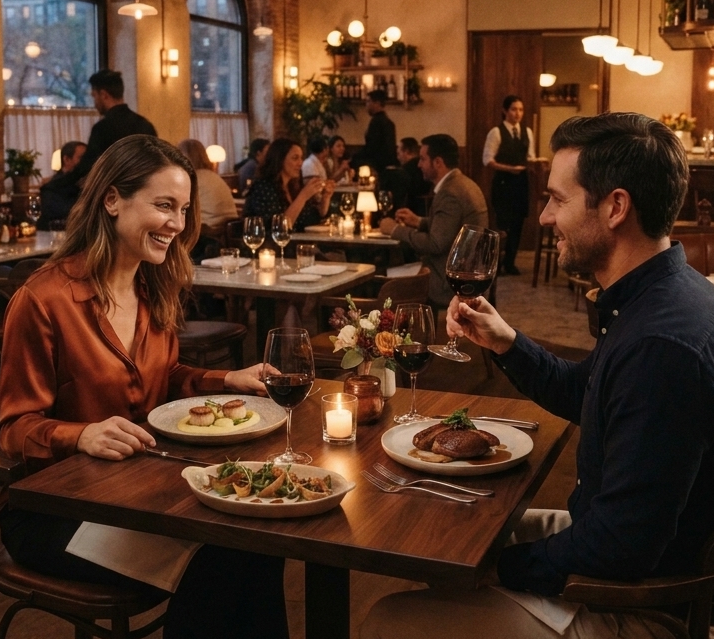
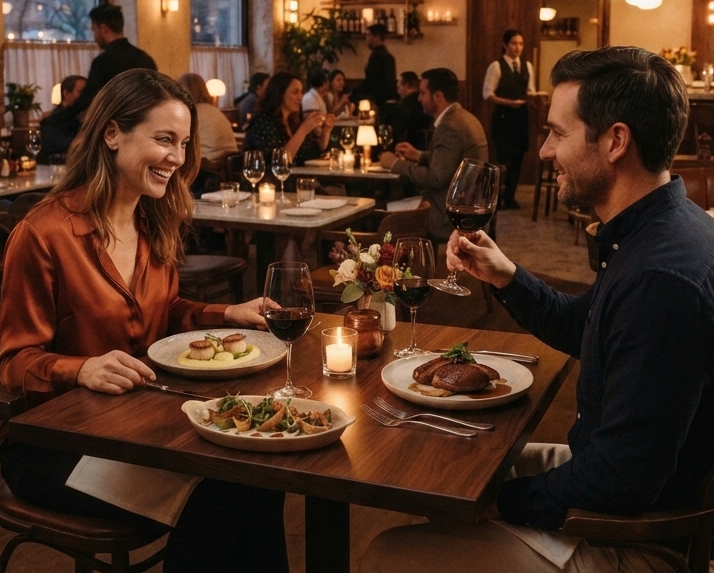
1

diff --git a/src/app/user/Resturents/[id]/page.tsx b/src/app/user/Resturents/[id]/page.tsx
@@ -2,31 +2,32 @@
 import { api } from "@/lib/api/axios";
 import Image from "next/image";
 import { userContext } from "@/lib/context/Context";
-import { MenuItem, OrderTable, Restaurant } from "@/lib/interfaces/order";
+import { MenuItem, OrderItem, Restaurant } from "@/lib/interfaces/order";
 import Result from "@/lib/Result";
 import { useParams } from "next/navigation";
 import { useContext, useEffect, useState } from "react";
-import {  MapPinCheckInside } from "lucide-react";
+import {  Delete, MapPinCheckInside, Minus, Plus, Trash } from "lucide-react";
+import Link from "next/link";
+import UsersLoading from "@/components/userComponents/Loading";
 
-export default function(params:{id:string}){
+export default function Resturants(params:{id:string}){
     const param = useParams<{ id: string }>();
-    const {setNavinfo , setservererror} = useContext(userContext);
+    const {setNavinfo , setservererror , myBowl , setbowl } = useContext(userContext);
     const [catbtn, setcatbtn]= useState("all");
-    const [cat , setcat]= useState<Set<string>>(new Set);
-
+    const [cat, setcat] = useState<string[]>([]);
     const [resturent, setResturent] = useState<Restaurant | null>(null);
+    const [nextTotal, setnextTotal] = useState(0);
+    
 
     useEffect(()=>{
         if(!resturent){return}
-        const cats = new Set(resturent.menu.map(e=>e.catagory));
-        setcat(cats)
-        console.log(cats);   
-        // console.log("catagories")
+        const cats = Array.from(new Set(resturent.menu.map(e=>e.catagory)));
+        setcat(cats);
 
     },[resturent]);
 
     useEffect(()=>{
-        setNavinfo({title:"Resturent" , goback:true});
+       
         const getresturent = async () => {
             if (!param.id) return;
 
@@ -34,7 +35,6 @@ export default function(params:{id:string}){
                 const {data} = await api.get<Result<Restaurant>>(`resturant/getResturentById/${param.id}`);
                 if (data?.Success && data.Data) {
                     setResturent(data.Data);
-                    setNavinfo({title:data.Data.resturantName ?? "Resturent" , goback:true});
                 console.log(data)
                 }
             } catch (e) {
@@ -49,10 +49,32 @@ export default function(params:{id:string}){
         console.log(cat);
         setcatbtn(cat);
     }
+    
+   
+    useEffect(()=>{
+         const Total = myBowl?.filter(e=> e.resturantId === param.id)
+            .reduce((acc, item) => acc + (Number(item.price) * item.quantity), 0) ?? 0;
+            setnextTotal(Total);
+    }, [myBowl, param.id ]);
+
+    useEffect(()=>{
+        if(!resturent){return}
+
+        setNavinfo({title:resturent.resturantName
+                ,
+            goback: true
+        });
+    }, [resturent, nextTotal, setNavinfo]);
+
+    const handledeleteall =()=>{
+        setbowl((pr)=>{
+            return pr.filter((e)=> e.menu.resturentId !== param.id);
+        })
+    }
     return(
         <>
         {
-        resturent? <div className="flex flex-col">
+        resturent? <div className="flex flex-col scroll-smooth duration-200">
             <Image src={resturent.coverFile?.Path?encodeURI((resturent.coverFile?.Path?.replace(/\\/g, "/")).startsWith("http")
             ? resturent.coverFile?.Path?.replace(/\\/g, "/")
             : `${api.defaults.baseURL?.replace(/\/$/, "")}/${resturent.coverFile?.Path?.replace(/\\/g, "/").replace(/^\//, "")}`) : "/broken_resturant_cover.png"} width={1000} height={1000} alt="cover"></Image>
@@ -71,29 +93,131 @@ export default function(params:{id:string}){
                 <p className=" p-3 text-[#A13924] font-bold">Checkout the menu</p>
                 <hr className="  border-[#97756f] w-full " />
                 
-                <div className="flex min-w-0 flex-row flex-nowrap overflow-x-auto overflow-y-hidden scroll-smooth snap-x snap-mandatory no-scrollbar">
-                    <button className = {`m-2 shrink-0 whitespace-nowrap rounded-3xl border pl-3 pr-3 pt-1 pb-1 ${catbtn == "all" ? "bg-[#A13924] text-white" :" bg-[#F5F3F0] border border-[#DEC0BA]"}`} onClick={()=>handlemenucatagory("all")}>All items</button>
-                    {Array.from(cat).map((val) => (
-                        <button
+                <div className="flex min-w-0 flex-row flex-nowrap overflow-x-auto overflow-y-hidden scroll-smooth snap-x snap-mandatory no-scrollbar sticky top-14 z-10 bg-[#FBF9F6] p-2">
+                    <a id="allitems" href="#allitems" className = {`m-2 shrink-0 whitespace-nowrap rounded-3xl border pl-3 pr-3 pt-1 pb-1 ${catbtn == "all" ? "bg-[#A13924] text-white" :" bg-[#F5F3F0] border border-[#DEC0BA]"}`} onClick={()=>handlemenucatagory("all")}>All items</a>
+                    {cat.map((val) => (
+                        <a href={`#${val}`}
                             key={val}
                             className={`m-2 shrink-0 whitespace-nowrap rounded-3xl border pl-3 pr-3 pt-1 pb-1 ${catbtn === val ? "bg-[#A13924] text-white" : "bg-[#F5F3F0] border border-[#DEC0BA]"}`}
                             onClick={() => handlemenucatagory(val)} >
                             {val}
-                        </button>
+                        </a>
                     ))}
                 </div>
+                {/* cards load */}
+               <div className="flex flex-col gap-1 p-3">
+                {cat.map(e=> <span id={e} key={e} className="flex flex-col m-2 mb-4 font-semibold"> {e}{resturent.menu.map(f=> e == f.catagory && f.isAvailable ? <Ordercard resid={param.id} key={f.id} item={f}/>:"")}</span>)}
+               </div>
             </div>
-        </div> : "<UsersLoading time={2000}/>"}
-
+            <div>
+                {nextTotal > 0 ? <span className="fixed bottom-15 left-0 right-0 z-50 flex h-16 w-full items-center justify-between gap-4 bg-[#A13924] p-4 text-white">
+                <span className="font-bold">Total: {nextTotal} BDT</span>
+                <span className="flex flex-row gap-4 items-center justify-end">
+                <Link href={"../checkout"} className="rounded-3xl bg-[#F5F3F0] p-1 pl-2.5 pr-2.5 text-[#A13924] font-semibold">Checkout</Link> 
+                <button  onClick={()=>{handledeleteall()}} className=" border border-white">Revove all</button>
+                </span></span>:""}
+            </div>
+        </div> : <UsersLoading time={2000}/>}
         </>
     )
 }
 
-export function Ordercard({item}:{item:MenuItem}){
+export function Ordercard({item , resid }:{item:MenuItem , resid:string }){
+    const {myBowl , setbowl} = useContext(userContext);
+    const [count, setcount] = useState(1);
+    const [found , setfound] = useState(false)   
+    
+    useEffect(() => {
+    const checkfound = myBowl?.find(
+        (orderItem) =>
+            orderItem.menu.id === item.id &&
+            orderItem.resturantId === resid
+    );
 
+    if (!checkfound) {
+        setfound(false);
+        setcount(1);
+        return;
+    }
+
+    setfound(true);
+    setcount(checkfound.quantity);
+}, [myBowl, item.id, resid]);
+
+    const handleadd =()=>{
+        // console.log("add to bowl");
+        setbowl((prev:OrderItem[])=>{
+            const existingItemIndex = prev!.find((orderItem) => orderItem.menu.id === item.id);
+            if (existingItemIndex ) {
+                console.log(existingItemIndex);
+                // console.log("item already exist in bowl");
+                return prev!.map(e=> e.menu.id === item.id ? { ...e, quantity: count } : e)
+            } else {
+                // console.log("item added to bowl");
+                return [...prev! , {resturantId:resid, menu: item, quantity: count, price: item.price }];
+            }
+        })
+            // console.log(myBowl);
+    }
+    const handleremove =()=>{
+        setbowl((prev:OrderItem[])=>{
+            const existingItemIndex = prev!.find((orderItem) => orderItem.menu.id === item.id);
+            if (existingItemIndex) {
+                // console.log("item removed from bowl");
+                return prev!.filter(e=> e.menu.id !== item.id)
+            } else {
+                // console.log("item not found in bowl");
+                return prev;
+            }
+        });
+        setcount(1);
+        setfound(false);
+        
+    }
     return(
         <>
-        dsd asd as
+        {item ?
+        <div className=" m-2 flex min-h-30 min-w-0 flex-row items-center justify-between overflow-hidden rounded-2xl border border-[#DEC0BA] bg-[#F5F3F0] p-3">
+            <span className="flex min-w-0 max-w-[60%] flex-col justify-start gap-2">
+            <span className="truncate font-semibold text-[#3b3939]">{item.itemName}</span>
+            <span className="break-words font-normal leading-5 text-[#7a7776]">{item.description}</span>       
+            {/* counter button */}
+        <span className="flex flex-row items-center gap-2">
+        <span className="font-bold text-[#A13924]">{item.price} BDT</span>
+        <div className="inline-flex w-fit items-center overflow-hidden rounded-full border border-[#DEC0BA] bg-white shadow-sm">
+            <button
+              aria-label={`Decrease quantity of ${item.itemName}`}
+              className="flex h-5 w-5 items-center justify-center text-[#A13924] transition hover:bg-[#f2e3de] disabled:cursor-not-allowed disabled:opacity-40"
+              onClick={() => setcount((prev) => Math.max(1, prev - 1))}
+              type="button"
+              disabled={count === 1}
+            >
+              <Minus size={15} strokeWidth={2.5} />
+            </button>
+            <span className="flex h-5 min-w-5 items-center justify-center border-x border-[#DEC0BA] px-2 text-sm font-bold text-[#2d221f]" aria-live="polite">
+              {count}
+            </span>
+            <button
+              aria-label={`Increase quantity of ${item.itemName}`}
+              className="flex h-5 w-5 items-center justify-center text-[#A13924] transition hover:bg-[#f2e3de]"
+              onClick={() => setcount((prev) => prev + 1)}
+              type="button">
+              <Plus size={15} strokeWidth={2.5} />
+            </button>
+          </div>
+            </span>
+            {count > 1 ?<span className="text-[#A13924]">Total:{count*item.price} BDT</span> :""}
+            </span>
+            <span className="relative">
+            <Image  className="h-24 w-24 shrink-0 rounded-2xl object-cover shadow-md" src={item.images?.[0]?.Path
+                ? encodeURI((item.images[0].Path.replace(/\\/g, "/")).startsWith("http")
+                ? item.images[0].Path.replace(/\\/g, "/")
+                : `${api.defaults.baseURL?.replace(/\/$/, "")}/${item.images[0].Path.replace(/\\/g, "/").replace(/^\//, "")}`) : "/broken_resturant__logo.png"} width={1000} height={1000} alt={`${item.itemName} image`} />
+
+                {found ? <button onClick={()=>handleremove()} className="absolute top-18 rounded-4xl p-1 bg-[#A13924] right-1"><Trash size={20} color="#ffff" strokeWidth={3} /></button> :<button onClick={()=>handleadd()} className="absolute top-18 rounded-4xl p-1 bg-[#A13924] right-1"><Plus size={20} color="#ffff" strokeWidth={3} /></button>
+                }
+            </span>
+        </div>:""}
         </>
     )
 

diff --git a/src/app/user/layout.tsx b/src/app/user/layout.tsx
@@ -1,31 +1,50 @@
 "use client"
 import Usernav from "@/components/userComponents/usernav"
-import { Restaurant } from "@/lib/interfaces/order";
-import { useState } from "react"
+import { OrderItem, Restaurant } from "@/lib/interfaces/order";
+import { useEffect, useState } from "react"
 import { userContext } from "@/lib/context/Context";
-import { ShieldQuestionMark, Utensils } from "lucide-react";
+import { Route, ShieldQuestionMark, Utensils } from "lucide-react";
 import AlerPopup from "@/components/alertPopup";
 import ServerError from "@/components/serverError";
 
 export default function userlayout({ children }: { children: React.ReactNode }){
     const [popup, setPopup] = useState("");
     const [servererror , setservererror] = useState("");
-    
+
+    const [myBowl , setbowl] = useState<OrderItem[] >([]);
+
     const [activeLink, setActiveLink] = useState("home");
     const [navinfo, setNavinfo] = useState<{ icon1?: React.ReactNode; icon2?: React.ReactNode; title: string , goback?:boolean }>(
         { icon1: <Utensils color="#A13924" />, icon2: <ShieldQuestionMark />, title: "DineSpace" , goback:false}
     );
-    const handleLinkClick = (link: string) => {
-        setActiveLink(link);
-    };
+
+    const getlocal =()=>{
+         if(myBowl.length === 0){
+            const storedBowl = localStorage.getItem("mybowl");
+             if (!storedBowl) return ;
+             try {
+                const parsedBowl = JSON.parse(storedBowl) as OrderItem[];
+                setbowl(parsedBowl);
+             } catch (error) {
+                console.error("Error parsing stored bowl:", error);
+             }
+        }
+    }    
+    useEffect(()=>{
+        getlocal();
+    },[])    
+    useEffect(() => {  
+        localStorage.setItem("mybowl", JSON.stringify(myBowl));
+    }, [myBowl]);
+
+
     return <div className="h-svh overflow-y-auto no-scrollbar">
-    <userContext.Provider value={{setActiveLink, setNavinfo , setPopup , setservererror}}  >
+    <userContext.Provider value={{setActiveLink, setNavinfo , setPopup , setservererror , setbowl , myBowl}}  >
     <Usernav title={navinfo.title} icon1={navinfo.icon1} icon2={navinfo.icon2}  goback={navinfo.goback}/>
-    <div className="">
     {popup && <AlerPopup setpopup={() => setPopup("")} Message={popup} />}
     {servererror && <ServerError error={servererror} setservererror={() => setservererror}  />}
-    </div>   
-    <main>{children}</main>
+   
+    <main className="mb-22">{children}</main>
     </userContext.Provider>
     </div>
 }

diff --git a/src/components/userComponents/usernav.tsx b/src/components/userComponents/usernav.tsx
@@ -13,7 +13,7 @@ title: string;
 }
 
 export default function Usernav(params:UsernavProps) {
-    const {setActiveLink} = useContext(userContext);
+    const {setActiveLink , myBowl} = useContext(userContext);
     const pathname = usePathname();
     const router = useRouter();
     return(
@@ -27,7 +27,7 @@ export default function Usernav(params:UsernavProps) {
         </div>
         <div className="fixed bottom-0 left-0 right-0 z-50 flex h-16 flex-row items-center justify-around border-t border-[#DEC0BA] bg-[#FBF9F6] px-4 shadow-lg">
             <Link href={"/user"} className= {`flex flex-col justify-between items-center ${pathname.startsWith('/user') ? 'text-[#A13924]' : 'text-gray-500'}`}><House /> <span>Home</span> </Link>
-            <Link href={"/user/myBowl"} className= {`flex flex-col justify-between items-center ${pathname.startsWith('/user/myBowl') ? 'text-[#A13924]' : 'text-gray-500'}`}><Soup /> <span>My Bowl</span> </Link>
+            <Link href={"/user/myBowl"} className= {`relative flex flex-col justify-between items-center ${pathname.startsWith('/user/myBowl') ? 'text-[#A13924]' : 'text-gray-500'}`}><Soup /> <span>My Bowl</span><span className=" absolute bg-[#A13924] p-.5 pl-1.5 pr-1.5 rounded-[100%] bottom-7 right-0 text-white">{ myBowl &&myBowl?.length > 0  ? myBowl?.length :""} </span></Link>
             <Link href={"/user/order"} className= {`flex flex-col justify-between items-center ${pathname.startsWith('/user/order') ? 'text-[#A13924]' : 'text-gray-500'}`}><House /> <span>Order</span> </Link>
         </div>
         </>

diff --git a/src/lib/context/Context.ts b/src/lib/context/Context.ts
@@ -1,4 +1,5 @@
 import { createContext, Dispatch, SetStateAction } from "react";
+import { OrderItem } from "../interfaces/order";
 
 interface RestaurantContextValue {
 	defaultResturant: string;
@@ -17,10 +18,14 @@ interface Usercontext{
 	setNavinfo:Dispatch<SetStateAction<{ icon1?: React.ReactNode; icon2?: React.ReactNode; title: string , goback?:boolean }>>;
 	setPopup: Dispatch<SetStateAction<string>>;
 	setservererror: Dispatch<SetStateAction<string>>;
+	setbowl:Dispatch<SetStateAction<OrderItem[] >>
+	myBowl?:OrderItem[] | null
 }
 export const userContext = createContext<Usercontext>({
 	setActiveLink:() => undefined,
 	setNavinfo:() => undefined,
 	setPopup: () => undefined,
 	setservererror:() => undefined,
+	setbowl: () => undefined,
+	myBowl: [],
 });

diff --git a/src/lib/interfaces/order.ts b/src/lib/interfaces/order.ts
@@ -3,12 +3,13 @@ import { ReactNode } from "react";
 import { Files } from "./file";
 
 export interface OrderItem {
-    id: string;
-    orderId: string;
-    itemId: string;
+    id?: string;
+    orderId?: string;
+    itemId?: string;
     menu: MenuItem;
     quantity: number;
-    price: string;
+    price: number;
+    resturantId?: string;
 }
 
 export interface MenuItem {

diff --git a/src/app/user/page.tsx b/src/app/user/page.tsx
@@ -11,6 +11,8 @@ export default function User() {
     
     const [resturants , setresturants] = useState<Restaurant[]>();
     const { setNavinfo } = useContext(userContext);
+   
+    
 
     useEffect(() => {
         setNavinfo({ icon1: <Utensils color="#A13924" />, title: "DineSpace" });
